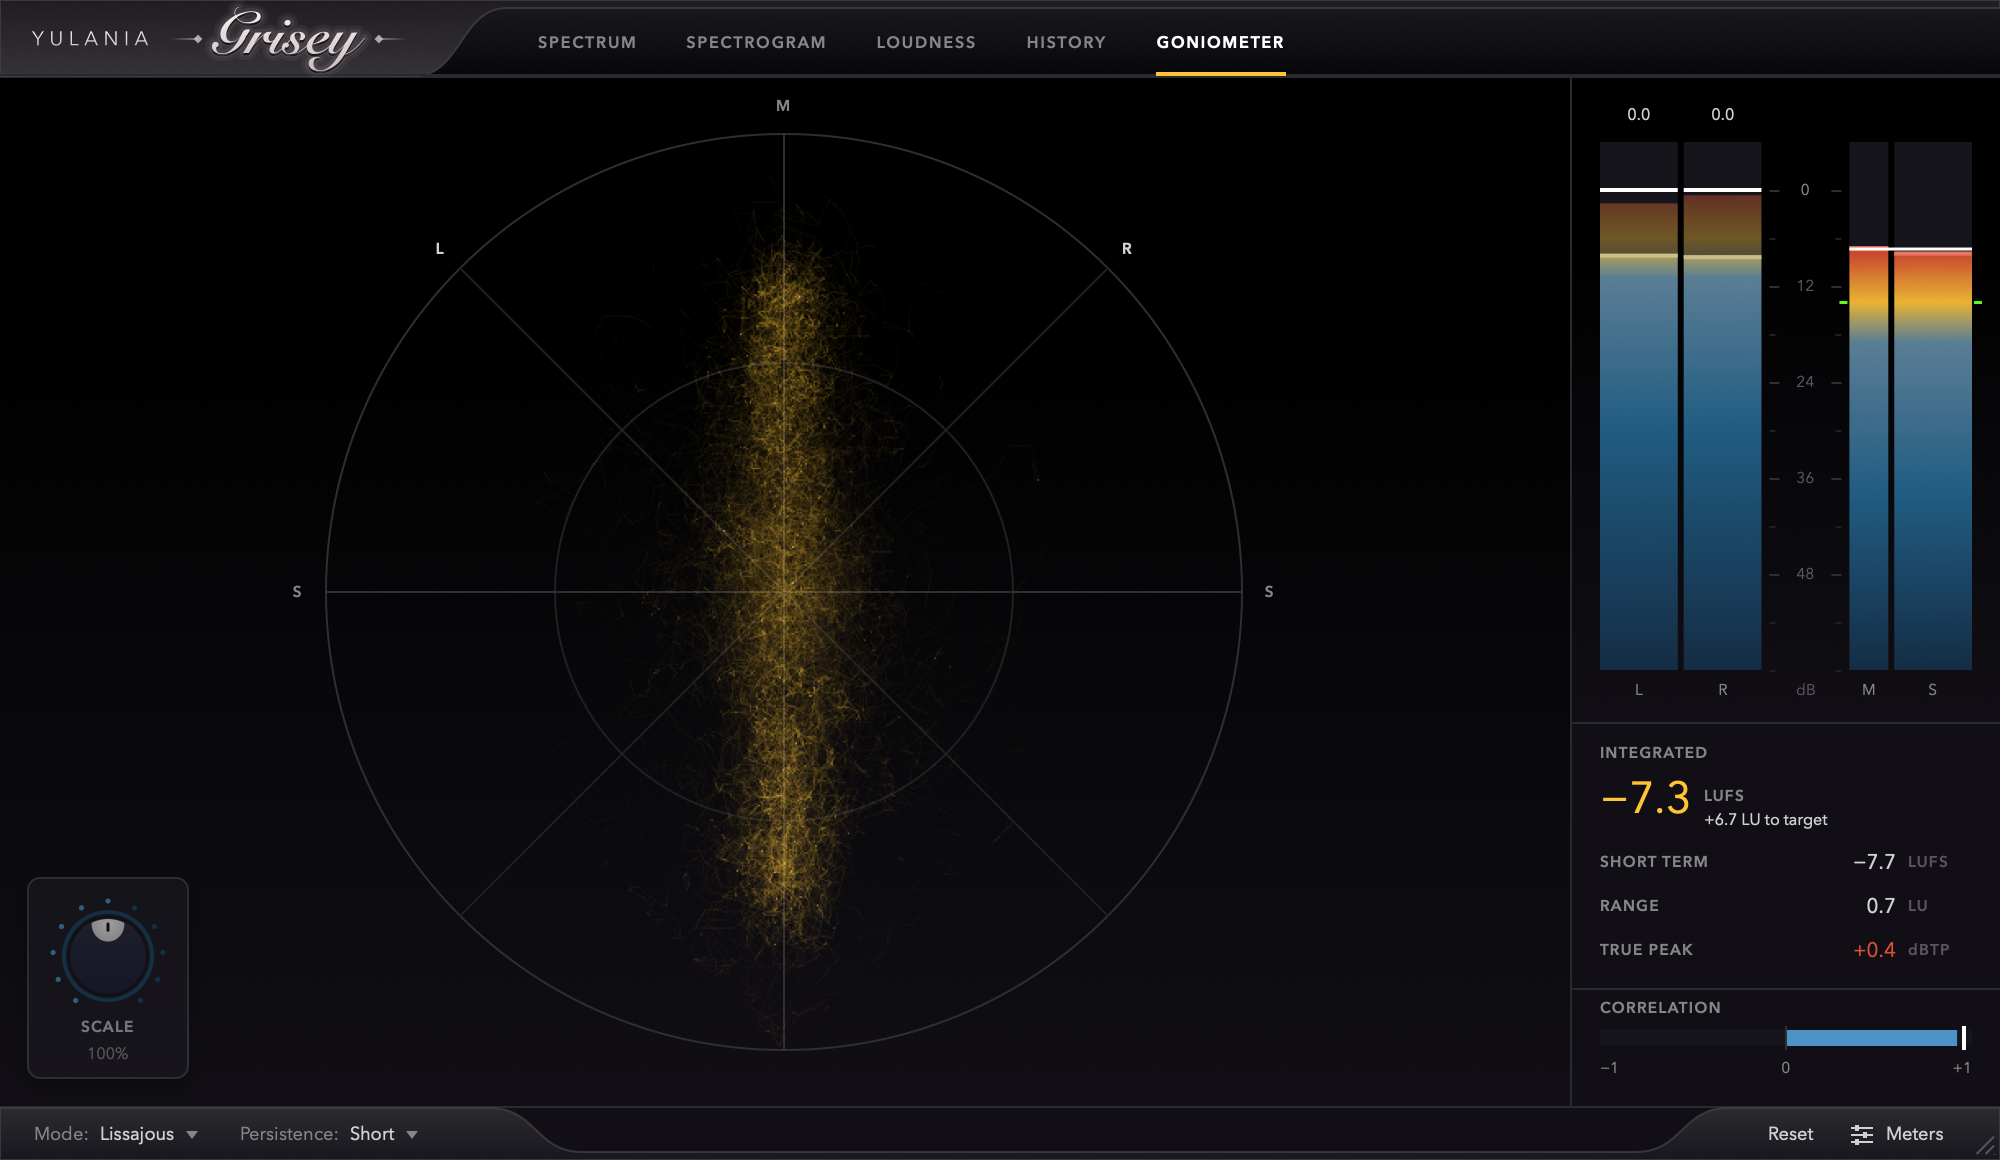
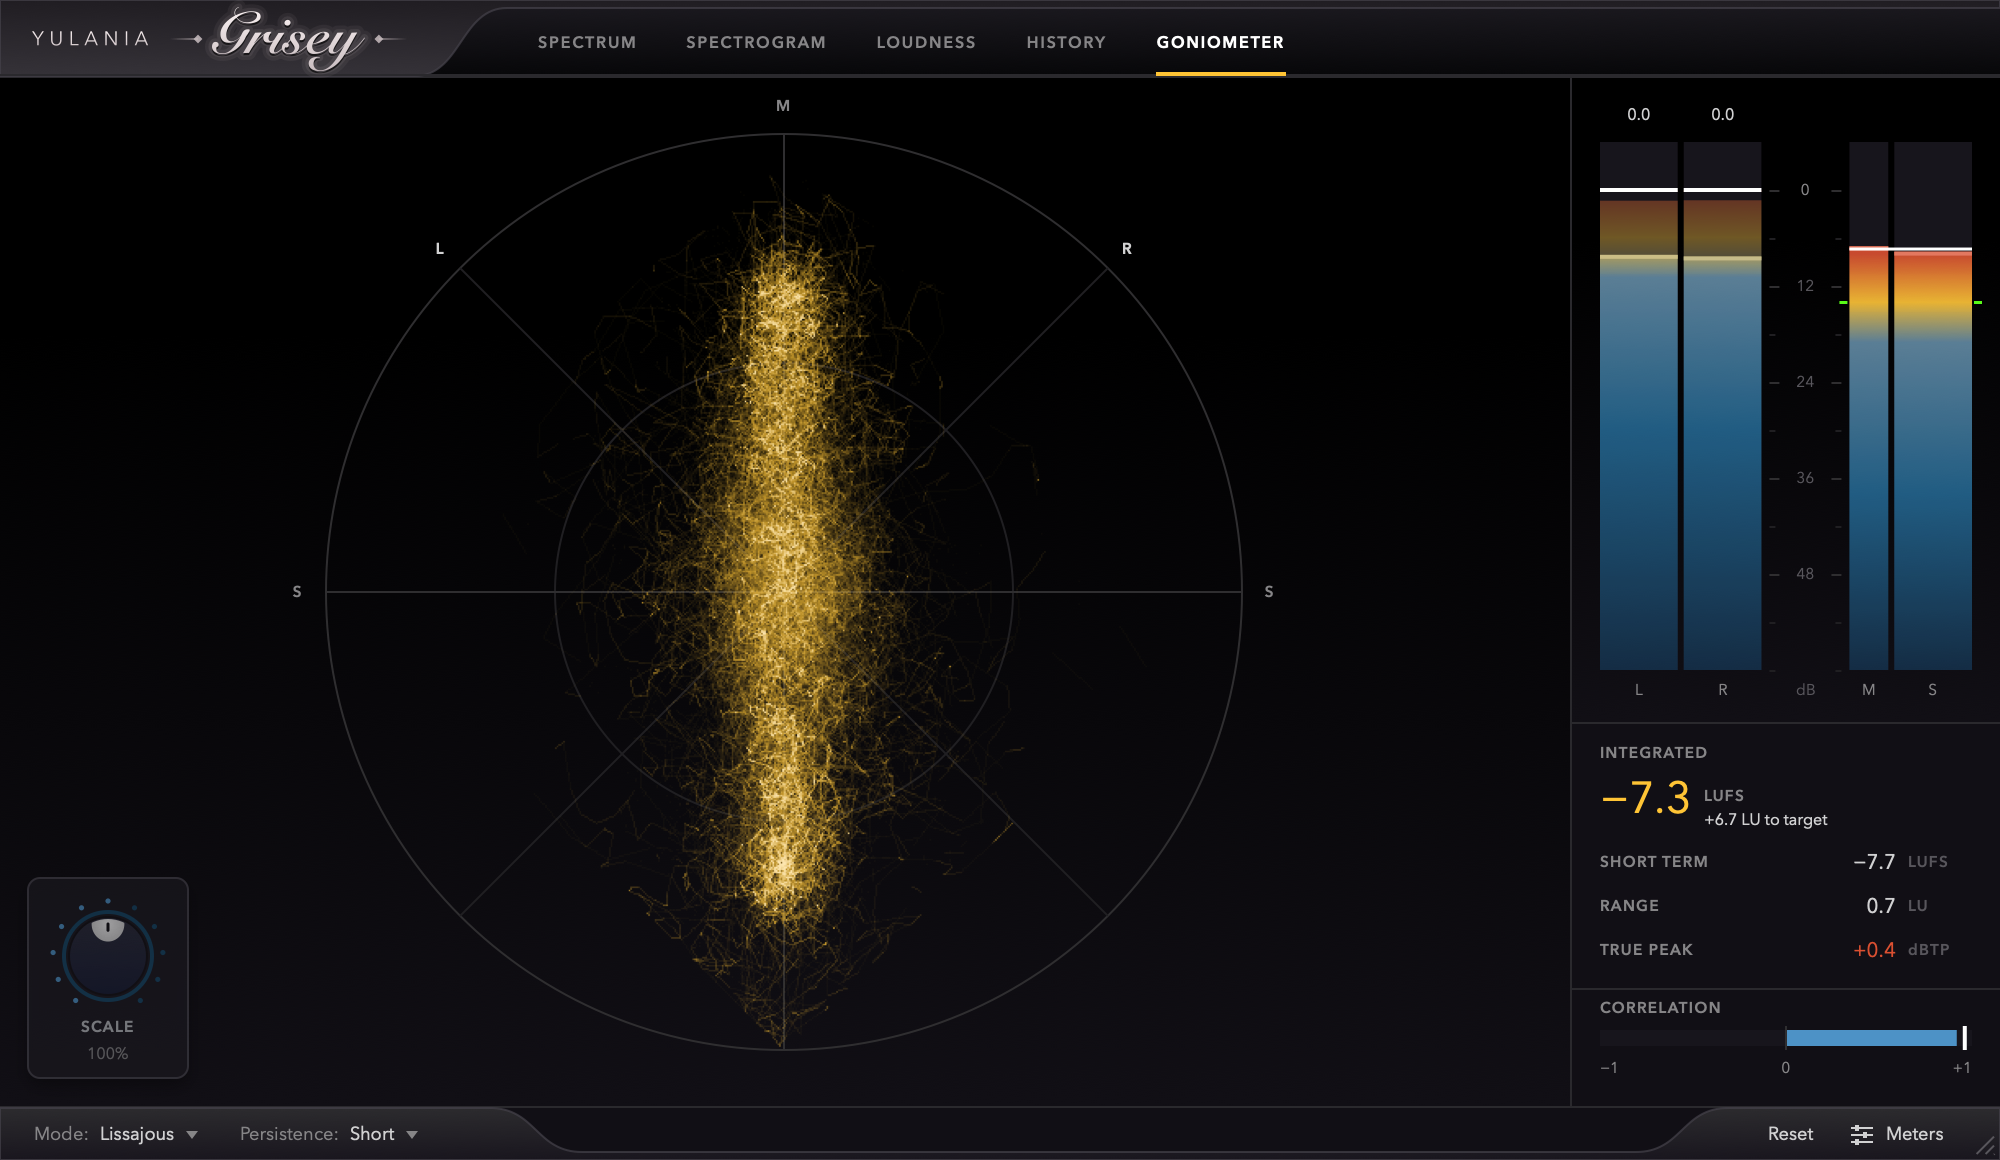
Expose the goniometer's trace as brightly as the spectrum's line
The trace is light that piles up, and the tone map made a single pass of the
beam about a fifth as bright as it could be, so the yellow was a transparent
ochre beside the solid yellow of the spectrum's curve. The exposure is nearly
four times what it was: one pass is a bright yellow, and where passes pile up
the trace goes on to white, from three quarters of full brightness. Chosen
from pictures of a loud passage and a quiet one at 2.2, 3.5 and 5.0; at 5.0
the trace smears into a pale blob.

Changed region(s): [[0.31, 0.1862, 0.465, 0.8379], [0.837, 0.1552, 0.868, 0.1862]]

diff --git a/Source/Views/GoniometerView.cpp b/Source/Views/GoniometerView.cpp
@@ -11,8 +11,10 @@ GoniometerView::GoniometerView(juce::AudioProcessorValueTreeState& apvts, const 
     for (int i = 0; i < toneMapSize; ++i)
     {
         const float light = toneMapMaxIntensity * (float)i / (float)(toneMapSize - 1);
-        const float brightness = 1.f - std::exp(-0.9f * light);
-        const float whiteness = juce::jmax(0.f, brightness - 0.6f) * 1.5f;
+        // The exposure: one pass of the beam is bright already, as the line of the spectrum is, and where
+        // passes pile up the trace goes on to white
+        const float brightness = 1.f - std::exp(-toneMapExposure * light);
+        const float whiteness = juce::jmax(0.f, brightness - 0.75f) * 2.5f;
         const auto colour = Theme::accent.interpolatedWith(juce::Colours::white, whiteness);
 
         // The pixels of an ARGB image hold premultiplied colors

diff --git a/Source/Views/GoniometerView.h b/Source/Views/GoniometerView.h
@@ -87,6 +87,7 @@ private:
     // so that dense parts of the trace keep their detail, and the brightest parts turn towards white.
     static constexpr int toneMapSize = 1024;
     static constexpr float toneMapMaxIntensity = 8.f;
+    static constexpr float toneMapExposure = 3.5f;
     std::array<juce::PixelARGB, toneMapSize> toneMap;
 
     Mode mode = lissajous;
